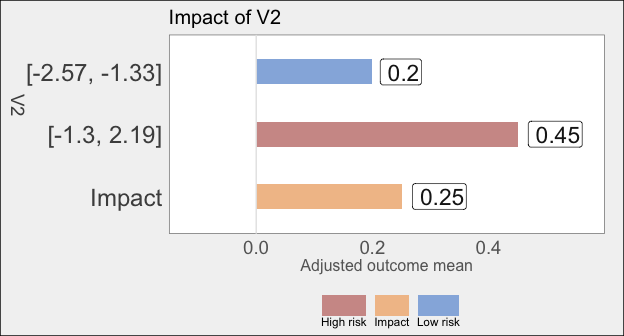
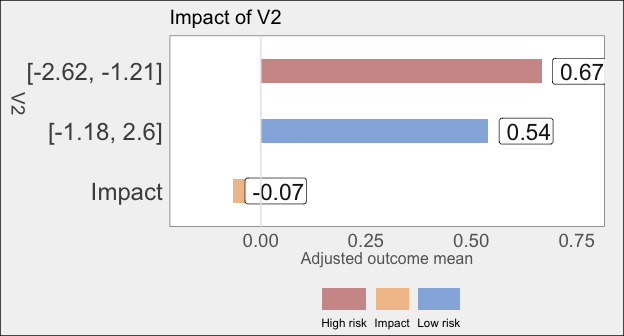
readme: update and re-run

diff --git a/README.md b/README.md
@@ -51,17 +51,17 @@ Chris directly.
 
 ## Installation
 
-### Github
+### GitHub
 
 ``` r
-# Install devtools if necessary:
-# install.packages("devtools")
-devtools::install_github("ck37/varimpact")
+# Install remotes if necessary:
+# install.packages("remotes")
+remotes::install_github("ck37/varimpact")
 ```
 
 ### CRAN
 
-Forthcoming fall 2018
+Forthcoming fall 2022
 
 ## Examples
 
@@ -72,16 +72,13 @@ library(varimpact)
 #> Loading required package: SuperLearner
 #> Loading required package: nnls
 #> Super Learner
-#> Version: 2.0-25-9000
-#> Package created on 2018-07-10
-#> 
-#> This is package 'modeest' written by P. PONCET.
-#> For a complete list of functions, use 'library(help = "modeest")' or 'help.start()'.
+#> Version: 2.0-27-9000
+#> Package created on 2021-03-28
 
 ####################################
 # Create test dataset.
 set.seed(1, "L'Ecuyer-CMRG")
-N <- 200
+N <- 300
 num_normal <- 5
 X <- as.data.frame(matrix(rnorm(N * num_normal), N, num_normal))
 Y <- rbinom(N, 1, plogis(.2*X[, 1] + .1*X[, 2] - .2*X[, 3] + .1*X[, 3]*X[, 4] - .2*abs(X[, 4])))
@@ -103,24 +100,35 @@ vim <- varimpact(Y = Y, data = X)
 
 # Review consistent and significant results.
 vim
-#> Significant and consistent results:
-#>       Type  Estimate     P-value Adj. P-value            CI 95
-#> V2 Ordered 0.2501553 0.004721456   0.02360728 (0.0613 - 0.439)
+#> No significant and consistent results.
+#> All results:
+#>       Type    Estimate              CI95    P-value Adj. p-value   Est. RR
+#> V4 Ordered  0.17058432 (-0.0518 - 0.393) 0.06639069    0.3319535 1.3174241
+#> V1 Ordered  0.03831094  (-0.158 - 0.234) 0.35081119    0.8770280 1.0724707
+#> V3 Ordered -0.05171291  (-0.339 - 0.235) 0.63807247    0.8835731 0.9673808
+#> V2 Ordered -0.06678388  (-0.307 - 0.174) 0.70685848    0.8835731 0.9305320
+#> V5 Ordered -0.12419619 (-0.304 - 0.0561) 0.91152962    0.9115296 0.8468485
+#>           CI95 RR P-value RR Adj. p-value RR Consistent
+#> V4 (0.953 - 1.82)  0.0474590       0.2372950       TRUE
+#> V1 (0.446 - 2.58)  0.4379413       0.8101835       TRUE
+#> V3 (0.654 - 1.43)  0.5658283       0.8101835      FALSE
+#> V2 (0.642 - 1.35)  0.6481468       0.8101835      FALSE
+#> V5 (0.634 - 1.13)  0.8696742       0.8696742      FALSE
 
 # Look at all results.
 vim$results_all
-#>       Type    Estimate              CI95     P-value Adj. p-value
-#> V2 Ordered  0.25015526  (0.0613 - 0.439) 0.004721456   0.02360728
-#> V5 Ordered  0.14126628 (-0.0724 - 0.355) 0.097520684   0.24380171
-#> V3 Ordered  0.15309902  (-0.136 - 0.443) 0.150010821   0.25001804
-#> V1 Ordered  0.03420408  (-0.224 - 0.293) 0.397651895   0.49706487
-#> V4 Ordered -0.16142012 (-0.383 - 0.0602) 0.923254928   0.92325493
-#>    Consistent
-#> V2       TRUE
-#> V5       TRUE
-#> V3      FALSE
-#> V1       TRUE
-#> V4      FALSE
+#>       Type    Estimate              CI95    P-value Adj. p-value   Est. RR
+#> V4 Ordered  0.17058432 (-0.0518 - 0.393) 0.06639069    0.3319535 1.3174241
+#> V1 Ordered  0.03831094  (-0.158 - 0.234) 0.35081119    0.8770280 1.0724707
+#> V3 Ordered -0.05171291  (-0.339 - 0.235) 0.63807247    0.8835731 0.9673808
+#> V2 Ordered -0.06678388  (-0.307 - 0.174) 0.70685848    0.8835731 0.9305320
+#> V5 Ordered -0.12419619 (-0.304 - 0.0561) 0.91152962    0.9115296 0.8468485
+#>           CI95 RR P-value RR Adj. p-value RR Consistent
+#> V4 (0.953 - 1.82)  0.0474590       0.2372950       TRUE
+#> V1 (0.446 - 2.58)  0.4379413       0.8101835       TRUE
+#> V3 (0.654 - 1.43)  0.5658283       0.8101835      FALSE
+#> V2 (0.642 - 1.35)  0.6481468       0.8101835      FALSE
+#> V5 (0.634 - 1.13)  0.8696742       0.8696742      FALSE
 
 # Plot the V2 impact.
 plot_var("V2", vim)
@@ -132,20 +140,22 @@ plot_var("V2", vim)
 
 # Generate latex tables with results.
 exportLatex(vim)
+#> NULL
 
 # Clean up - will get a warning if there were no consistent results.
 suppressWarnings({
   file.remove(c("varimpByFold.tex", "varImpAll.tex", "varimpConsistent.tex"))
 })
-#> [1] TRUE TRUE TRUE
+#> [1]  TRUE  TRUE FALSE
 ```
 
 ### Example: customize outcome and propensity score estimation
 
 ``` r
-Q_lib <- c("SL.mean", "SL.glmnet", "SL.ranger", "SL.rpartPrune", "SL.bayesglm")
-g_lib <- c("SL.mean", "SL.glmnet")
-vim <- varimpact(Y = Y, data = X, Q.library = Q_lib, g.library = g_lib)
+Q_lib = c("SL.mean", "SL.glmnet", "SL.ranger", "SL.rpartPrune")
+g_lib = c("SL.mean", "SL.glmnet")
+set.seed(1, "L'Ecuyer-CMRG")
+(vim = varimpact(Y = Y, data = X, Q.library = Q_lib, g.library = g_lib))
 #> Finished pre-processing variables.
 #> 
 #> Processing results:
@@ -155,10 +165,20 @@ vim <- varimpact(Y = Y, data = X, Q.library = Q_lib, g.library = g_lib)
 #> No factor variables - skip VIM estimation.
 #> 
 #> Estimating variable importance for 5 numerics.
-vim
-#> Significant and consistent results:
-#>       Type  Estimate     P-value Adj. P-value            CI 95
-#> V2 Ordered 0.2545269 0.004149422   0.02074711 (0.0655 - 0.444)
+#> No significant and consistent results.
+#> All results:
+#>       Type    Estimate               CI95   P-value Adj. p-value   Est. RR
+#> V4 Ordered -0.02595001    (-0.25 - 0.198) 0.5897958    0.9863267 0.9926791
+#> V3 Ordered -0.12688688   (-0.391 - 0.137) 0.8267887    0.9863267 0.8304033
+#> V2 Ordered -0.11547591   (-0.355 - 0.124) 0.8277832    0.9863267 0.8529795
+#> V1 Ordered -0.17014276  (-0.397 - 0.0571) 0.9288760    0.9863267 0.6823365
+#> V5 Ordered -0.19094845 (-0.361 - -0.0213) 0.9863267    0.9863267 0.6210945
+#>           CI95 RR P-value RR Adj. p-value RR Consistent
+#> V4 (0.719 - 1.37)  0.5177707       0.9838749      FALSE
+#> V3  (0.55 - 1.25)  0.7944201       0.9838749      FALSE
+#> V2 (0.584 - 1.25)  0.8117625       0.9838749      FALSE
+#> V1  (0.44 - 1.06)  0.9560802       0.9838749       TRUE
+#> V5 (0.402 - 0.96)  0.9838749       0.9838749      FALSE
 ```
 
 ### Example: parallel via multicore
@@ -166,7 +186,7 @@ vim
 ``` r
 library(future)
 plan("multiprocess")
-vim <- varimpact(Y = Y, data = X)
+vim = varimpact(Y = Y, data = X)
 #> Finished pre-processing variables.
 #> 
 #> Processing results:
@@ -185,7 +205,7 @@ library(RhpcBLASctl)
 # Detect the number of physical cores on this computer using RhpcBLASctl.
 cl = parallel::makeCluster(get_num_cores())
 plan("cluster", workers = cl)
-vim <- varimpact(Y = Y, data = X)
+vim = varimpact(Y = Y, data = X)
 #> Finished pre-processing variables.
 #> 
 #> Processing results:
@@ -202,14 +222,14 @@ parallel::stopCluster(cl)
 
 ``` r
 data(BreastCancer, package = "mlbench")
-data <- BreastCancer
+data = BreastCancer
 
 # Create a numeric outcome variable.
-data$Y <- as.numeric(data$Class == "malignant")
+data$Y = as.integer(data$Class == "malignant")
 
 # Use multicore parallelization to speed up processing.
 plan("multiprocess")
-vim <- varimpact(Y = data$Y, data = subset(data, select = -c(Y, Class, Id)))
+(vim = varimpact(Y = data$Y, data = subset(data, select = -c(Y, Class, Id))))
 #> Finished pre-processing variables.
 #> 
 #> Processing results:
@@ -217,12 +237,17 @@ vim <- varimpact(Y = data$Y, data = subset(data, select = -c(Y, Class, Id)))
 #> - Numeric variables: 0 
 #> 
 #> Estimating variable importance for 9 factors.
-vim
 #> Significant and consistent results:
-#>                Type  Estimate      P-value Adj. P-value           CI 95
-#> Mitoses      Factor 0.3168938 0.000000e+00 0.000000e+00 (0.251 - 0.383)
-#> Cell.size    Factor 0.5683672 4.511602e-11 2.030221e-10  (0.397 - 0.74)
-#> Cl.thickness Factor 0.4006083 1.088584e-09 2.449314e-09 (0.269 - 0.532)
+#>                Type  Estimate            CI95      P-value Adj. p-value
+#> Bare.nuclei  Factor 0.6284939 (0.503 - 0.754) 0.000000e+00 0.000000e+00
+#> Mitoses      Factor 0.4097166 (0.336 - 0.483) 0.000000e+00 0.000000e+00
+#> Cl.thickness Factor 0.5344847 (0.378 - 0.691) 1.040124e-11 2.340278e-11
+#> Cell.size    Factor 0.5577438 (0.386 - 0.729) 8.920165e-11 1.605630e-10
+#>               Est. RR       CI95 RR   P-value RR Adj. p-value RR
+#> Bare.nuclei  3.697125 (2.15 - 6.35) 0.000000e+00    0.000000e+00
+#> Mitoses      2.095869 (1.85 - 2.37) 7.227108e-12    3.252199e-11
+#> Cl.thickness 3.103819 (2.23 - 4.31) 4.128421e-07    9.288948e-07
+#> Cell.size    3.326385 (1.93 - 5.73) 1.062140e-06    1.911853e-06
 plot_var("Mitoses", vim)
 ```
 
@@ -257,8 +282,8 @@ Dimensional Clinical Data. The journal of trauma and acute care surgery,
 75(1 0 1), S53.
 
 Hubbard, A. E., & van der Laan, M. J. (2016). Mining with inference:
-data-adaptive target parameters (pp. 439-452). In P. Bühlmann et al.
-(Ed.), Handbook of Big Data. CRC Press, Taylor & Francis Group, LLC:
+data-adaptive target parameters (pp. 439-452). In P. Bühlmann et
+al. (Ed.), Handbook of Big Data. CRC Press, Taylor & Francis Group, LLC:
 Boca Raton, FL.
 
 Jerez, J. M., Molina, I., García-Laencina, P. J., Alba, E., Ribelles,
